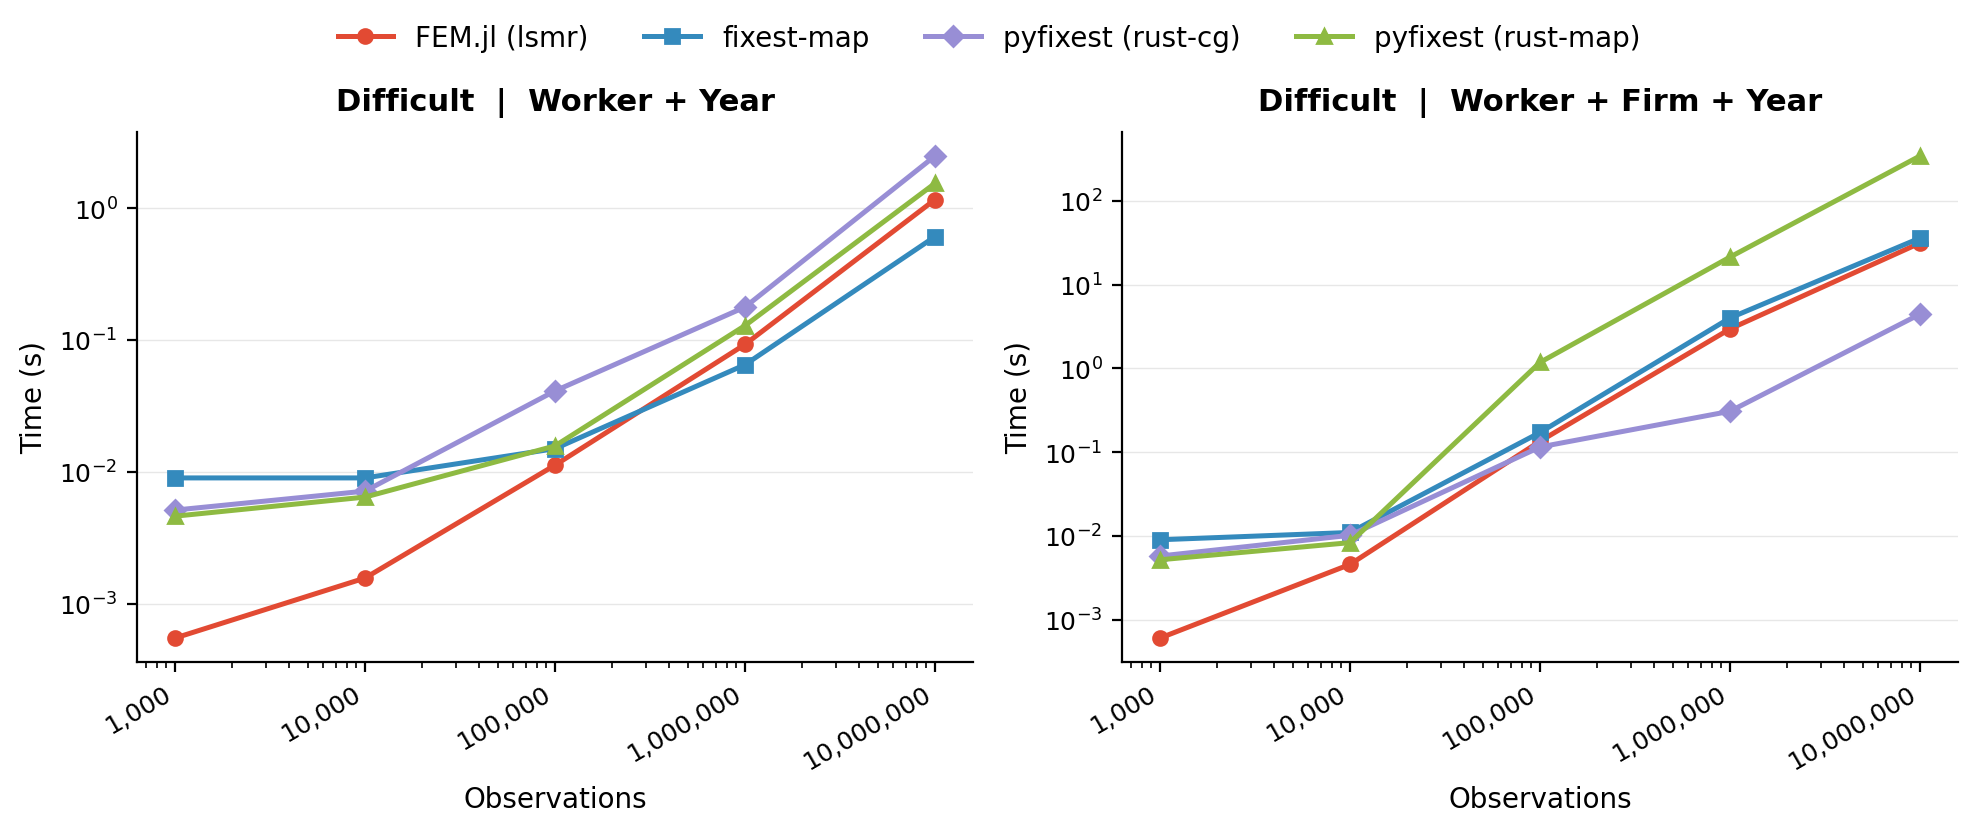
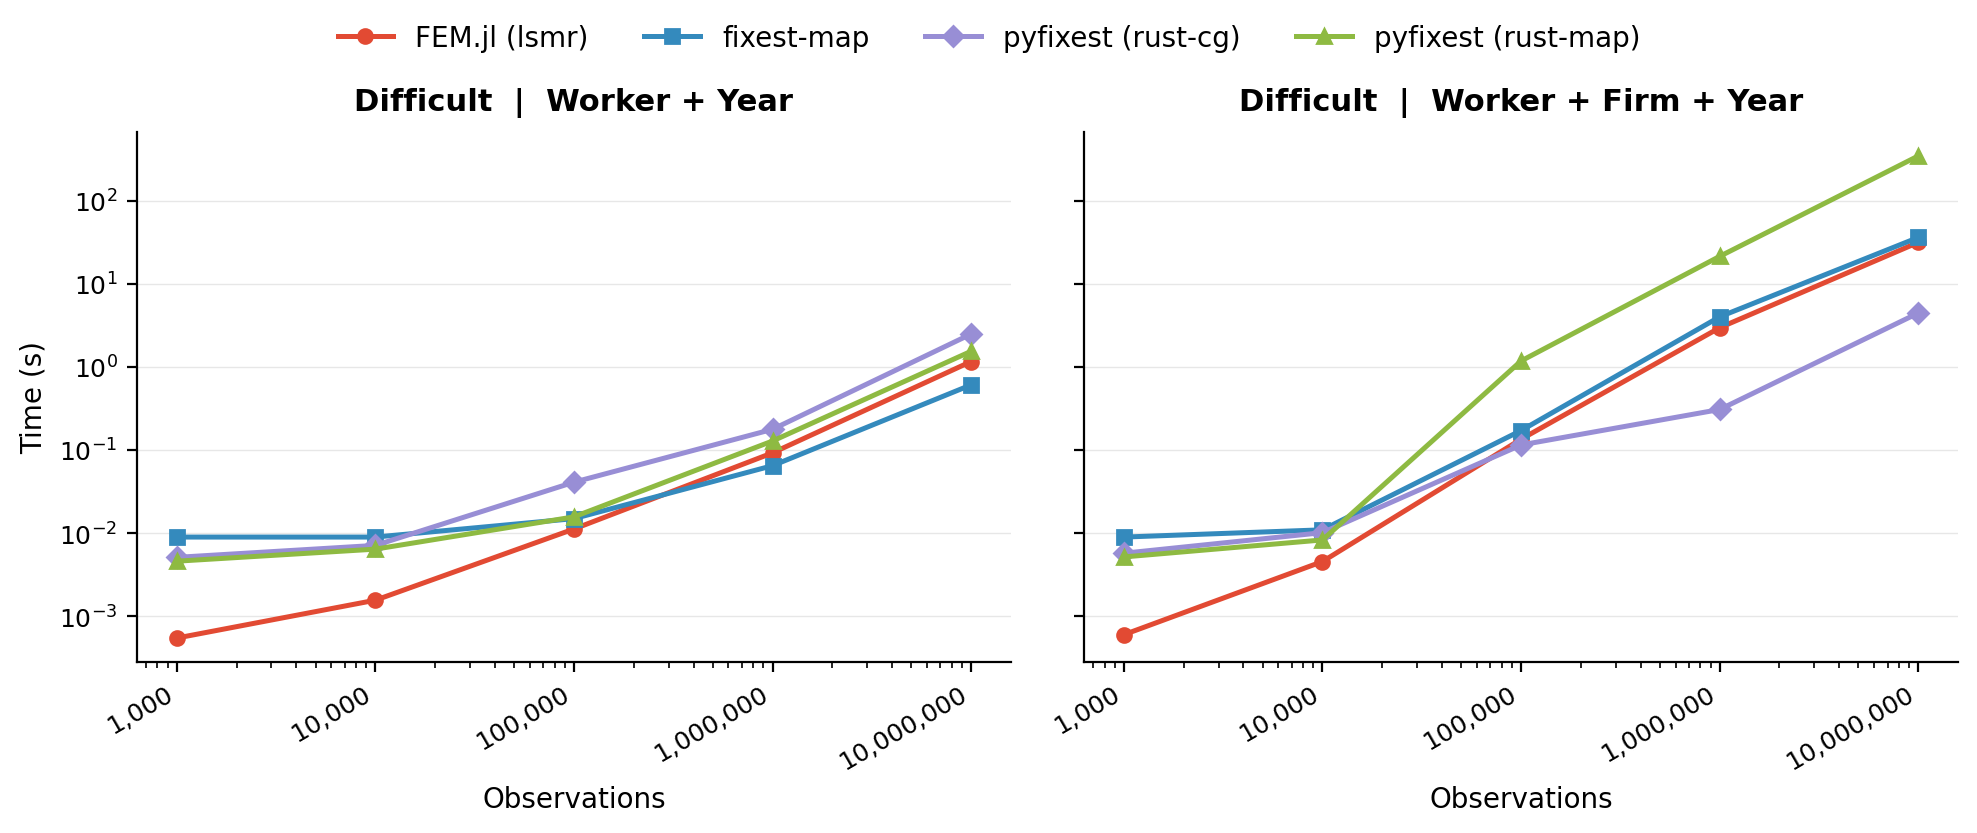
share y axis

diff --git a/benchmarks/modular/plotting.py b/benchmarks/modular/plotting.py
@@ -187,6 +187,7 @@ def _plot_dgp_figure(
         1,
         len(n_fes),
         figsize=(5 * len(n_fes), 4.2),
+        sharey=True,
         squeeze=False,
     )
 
@@ -210,7 +211,8 @@ def _plot_dgp_figure(
             [f"{n:,}" for n in n_obs_vals], rotation=30, ha="right", fontsize=9
         )
         ax.set_xlabel("Observations", fontsize=10)
-        ax.set_ylabel(y_label, fontsize=10)
+        if col_idx == 0:
+            ax.set_ylabel(y_label, fontsize=10)
         ax.set_yscale(y_scale)
         _apply_common_style(ax)
 
